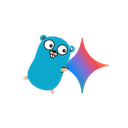
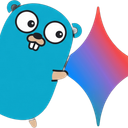
first commit 3

diff --git a/src/background/index.js b/src/background/index.js
@@ -1,53 +1,52 @@
 // ==========================================================================
-// 1. SAĞ TIK (CONTEXT MENU) OLUŞTURMA VE DİNLENMESİ
+// BACKGROUND (SERVICE WORKER) BAŞLATMA
 // ==========================================================================
-
-chrome.runtime.onInstalled.addListener(() => {
-  chrome.contextMenus.create({
-    id: "ask-gemini-selected",
-    title: "AI'ya Sor (Gemini): '%s'",
-    contexts: ["selection"],
+export function initBackground() {
+  // 1. SAĞ TIK (CONTEXT MENU) OLUŞTURMA VE DİNLENMESİ
+  chrome.runtime.onInstalled.addListener(() => {
+    chrome.contextMenus.create({
+      id: "ask-gemini-selected",
+      title: "AI'ya Sor (Gemini): '%s'",
+      contexts: ["selection"],
+    });
   });
-});
 
-chrome.contextMenus.onClicked.addListener((info, tab) => {
-  if (
-    info.menuItemId === "ask-gemini-selected" &&
-    info.selectionText &&
-    tab?.id
-  ) {
-    chrome.tabs
-      .sendMessage(tab.id, {
-        action: "SHOW_LOADING_MODAL",
-        prompt: info.selectionText,
-      })
-      .catch(() => {});
-
-    processGeminiQueryWithRetry(info.selectionText, 3, (response) => {
+  chrome.contextMenus.onClicked.addListener((info, tab) => {
+    if (
+      info.menuItemId === "ask-gemini-selected" &&
+      info.selectionText &&
+      tab?.id
+    ) {
       chrome.tabs
         .sendMessage(tab.id, {
-          action: "SHOW_RESULT_MODAL",
+          action: "SHOW_LOADING_MODAL",
           prompt: info.selectionText,
-          answer: response.answer || response.error,
         })
-        .catch((err) => {
-          console.error("Sonuç modalı gönderilemedi:", err);
-        });
-    });
-  }
-});
+        .catch(() => {});
 
-// ==========================================================================
-// 2. CONTENT SCRIPT MESAJ DİNLENMESİ
-// ==========================================================================
+      processGeminiQueryWithRetry(info.selectionText, 3, (response) => {
+        chrome.tabs
+          .sendMessage(tab.id, {
+            action: "SHOW_RESULT_MODAL",
+            prompt: info.selectionText,
+            answer: response.answer || response.error,
+          })
+          .catch((err) => {
+            console.error("Sonuç modalı gönderilemedi:", err);
+          });
+      });
+    }
+  });
 
-chrome.runtime.onMessage.addListener((request, sender, sendResponse) => {
-  if (request.action === "ASK_GEMINI") {
-    // 3 Defa Yeniden Deneme (Retry) Parametresi ile Çalıştır
-    processGeminiQueryWithRetry(request.prompt, 3, sendResponse);
-    return true; // Asenkron yanıt
-  }
-});
+  // 2. CONTENT SCRIPT MESAJ DİNLENMESİ
+  chrome.runtime.onMessage.addListener((request, sender, sendResponse) => {
+    if (request.action === "ASK_GEMINI") {
+      // 3 Defa Yeniden Deneme (Retry) Parametresi ile Çalıştır
+      processGeminiQueryWithRetry(request.prompt, 3, sendResponse);
+      return true; // Asenkron yanıt
+    }
+  });
+}
 
 // ==========================================================================
 // 3. RETRY (YENİDEN DENEME) DESTEKLİ GEMINI İŞLEM AKIŞI

diff --git a/src/content/index.js b/src/content/index.js
@@ -297,31 +297,41 @@ function initIndexAccordion() {
 // ==========================================================================
 // 4. EKLENTİ BAŞLATMA VE OBSERVER
 // ==========================================================================
-function initEklenti() {
-  highlightGoCode();
-  enhanceIndexTree();
-  initIndexAccordion();
-  initBottomSearchBar();
-}
+export function initContentScript() {
+  function initEklenti() {
+    highlightGoCode();
+    enhanceIndexTree();
+    initIndexAccordion();
+    initBottomSearchBar();
+  }
 
-if (document.readyState === "loading") {
-  document.addEventListener("DOMContentLoaded", initEklenti);
-} else {
-  initEklenti();
-}
-
-let observerTimeout = null;
-const observer = new MutationObserver(() => {
-  if (observerTimeout) clearTimeout(observerTimeout);
-  observerTimeout = setTimeout(() => {
+  if (document.readyState === "loading") {
+    document.addEventListener("DOMContentLoaded", initEklenti);
+  } else {
     initEklenti();
-  }, 100);
-});
+  }
 
-observer.observe(document.body, {
-  childList: true,
-  subtree: true,
-});
+  let observerTimeout = null;
+  const observer = new MutationObserver(() => {
+    if (observerTimeout) clearTimeout(observerTimeout);
+    observerTimeout = setTimeout(() => {
+      initEklenti();
+    }, 100);
+  });
+
+  observer.observe(document.body, {
+    childList: true,
+    subtree: true,
+  });
+
+  chrome.runtime.onMessage.addListener((request) => {
+    if (request.action === "SHOW_LOADING_MODAL") {
+      showModal(request.prompt, "Gemini yanıtı bekleniyor... ⏳");
+    } else if (request.action === "SHOW_RESULT_MODAL") {
+      showModal(request.prompt, request.answer);
+    }
+  });
+}
 
 // ==========================================================================
 // 5. SAYFA ALTI SABİT AI ARAMA ÇUBUĞU VE MODAL
@@ -376,14 +386,6 @@ function initBottomSearchBar() {
     }, 10);
   });
 }
-
-chrome.runtime.onMessage.addListener((request) => {
-  if (request.action === "SHOW_LOADING_MODAL") {
-    showModal(request.prompt, "Gemini yanıtı bekleniyor... ⏳");
-  } else if (request.action === "SHOW_RESULT_MODAL") {
-    showModal(request.prompt, request.answer);
-  }
-});
 
 function startGeminiAsk(promptText) {
   showModal(promptText, "Gemini yanıt üretiyor, lütfen bekleyin... ⏳");

diff --git a/src/gemini-bridge/index.js b/src/gemini-bridge/index.js
@@ -1,15 +1,16 @@
 // ==========================================================================
 // GEMINI BRIDGE (gemini.google.com/app Sekmesinde Çalışan Köprü)
 // ==========================================================================
-
-chrome.runtime.onMessage.addListener((request, sender, sendResponse) => {
-  if (request.action === "EXECUTE_PROMPT") {
-    runGeminiQuery(request.prompt).then((answer) => {
-      sendResponse({ answer });
-    });
-    return true; // Asenkron yanıt döneceğimizi belirtir
-  }
-});
+export function initGeminiBridge() {
+  chrome.runtime.onMessage.addListener((request, sender, sendResponse) => {
+    if (request.action === "EXECUTE_PROMPT") {
+      runGeminiQuery(request.prompt).then((answer) => {
+        sendResponse({ answer });
+      });
+      return true; // Asenkron yanıt döneceğimizi belirtir
+    }
+  });
+}
 
 async function runGeminiQuery(promptText) {
   // 1. Girdi kutusunu bul

diff --git a/src/main.js b/src/main.js
@@ -1,0 +1,16 @@
+import { initBackground } from "./background/index.js";
+import { initContentScript } from "./content/index.js";
+import { initGeminiBridge } from "./gemini-bridge/index.js";
+
+// ==========================================================================
+// TEK GİRİŞ NOKTASI: Çalışma bağlamına göre doğru modülü başlatır.
+// (Service worker'da `document` yoktur; content script'lerde ise sayfanın
+// host'una bakarak pkg.go.dev mi yoksa gemini.google.com mı olduğu ayrılır.)
+// ==========================================================================
+if (typeof document === "undefined") {
+  initBackground();
+} else if (location.hostname.includes("gemini.google.com")) {
+  initGeminiBridge();
+} else {
+  initContentScript();
+}

diff --git a/generate-icons.js b/generate-icons.js
@@ -3,7 +3,7 @@ import fs from "fs";
 
 const sizes = [16, 48, 128];
 const inputImage = "logo.png"; // Orijinal görselin yolu
-const outputDir = "src/assets/icons";
+const outputDir = "icons";
 
 if (!fs.existsSync(outputDir)) {
   fs.mkdirSync(outputDir, { recursive: true });
@@ -11,7 +11,11 @@ if (!fs.existsSync(outputDir)) {
 
 sizes.forEach((size) => {
   sharp(inputImage)
-    .resize(size, size)
+    .trim()
+    .resize(size, size, {
+      fit: "cover",
+      position: "centre",
+    })
     .toFile(`${outputDir}/icon${size}.png`)
     .then(() => console.log(`✅ icon${size}.png oluşturuldu.`))
     .catch((err) => console.error(err));

diff --git a/vite.config.js b/vite.config.js
@@ -12,9 +12,7 @@ export default defineConfig({
     minify: "terser",
     rollupOptions: {
       input: {
-        content: resolve(__dirname, "src/content/index.js"),
-        background: resolve(__dirname, "src/background/index.js"),
-        "gemini-bridge": resolve(__dirname, "src/gemini-bridge/index.js"),
+        main: resolve(__dirname, "src/main.js"),
       },
       output: {
         entryFileNames: "[name].js",
@@ -31,7 +29,7 @@ export default defineConfig({
           dest: ".",
         },
         {
-          src: "assets/icons",
+          src: "icons",
           dest: "assets",
         },
       ],
